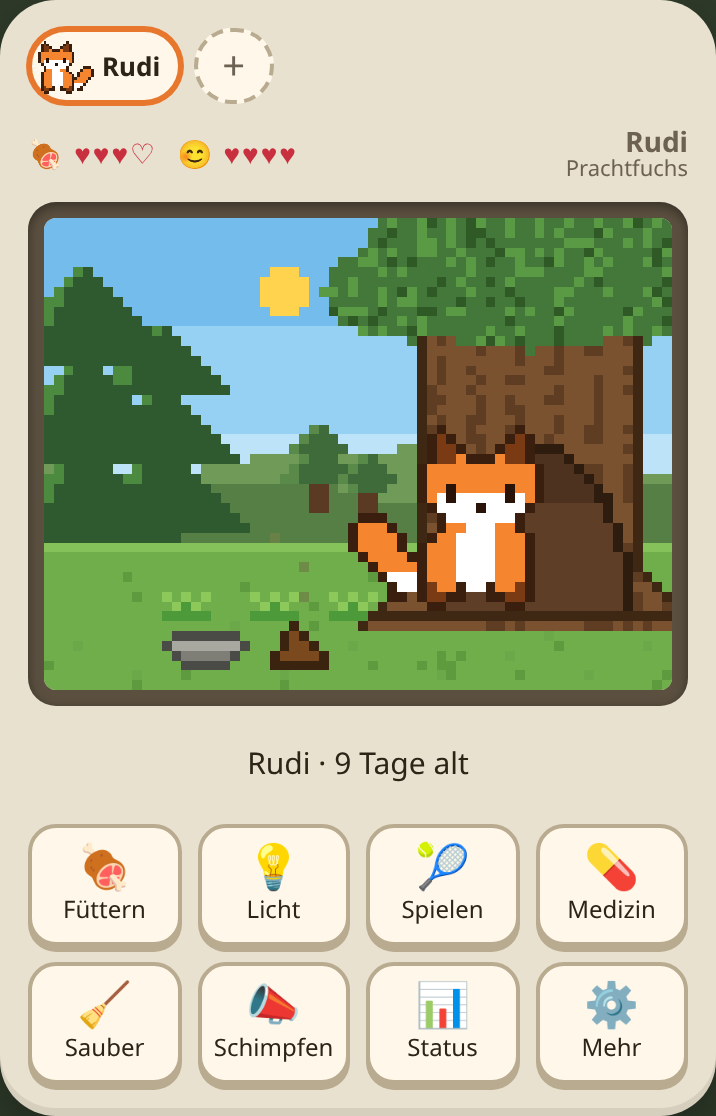
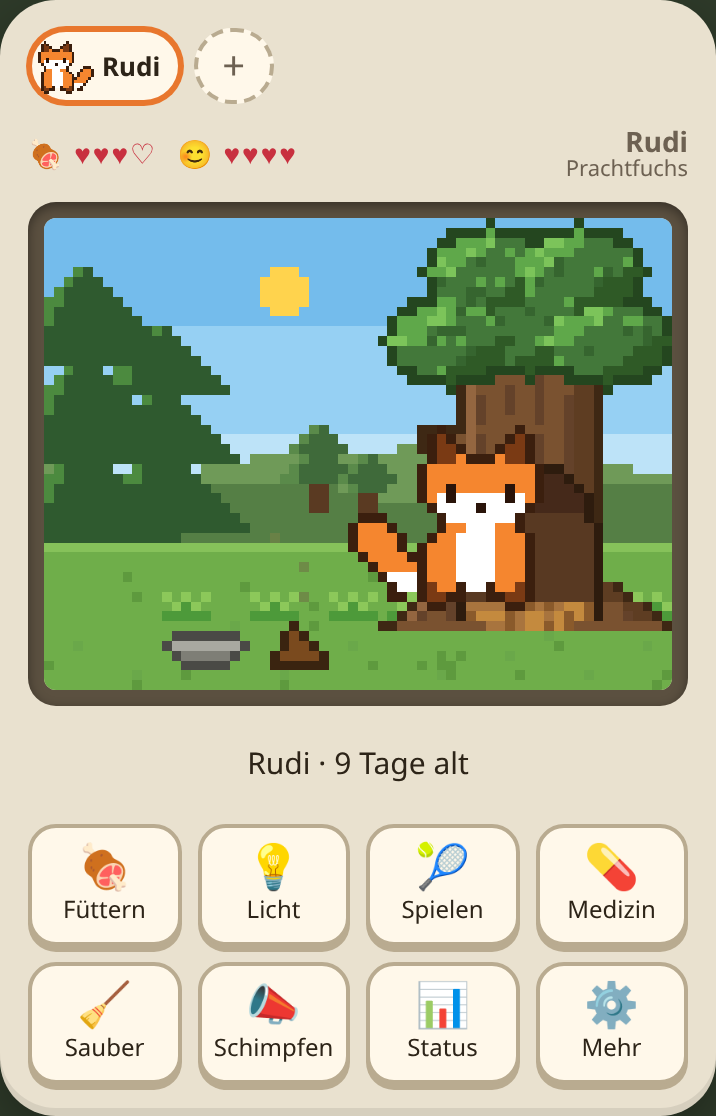
Baum am Waldrand kleiner und schöner: schlanker Stamm, Bogen-Höhle, schattierte Krone

Changed region(s): [[0.4302, 0.1828, 0.9525, 0.5789], [0.5838, 0.457, 0.6145, 0.4875]]

diff --git a/src/render/outdoor.ts b/src/render/outdoor.ts
@@ -145,33 +145,74 @@ function inEllipse(x: number, y: number, rx: number, ry: number, cy = NEST_BASE)
 }
 
 /** halbe Stammbreite je Zeile, unten mit Wurzeln breiter */
-const trunkHalf = (y: number) => 11 + (y > 35 ? y - 35 : 0);
-const HOLE_RX = 10;
-const HOLE_RY = 18;
+const trunkHalf = (y: number) => (y < 37 ? 7 : 7 + Math.round((y - 36) * 1.5));
+const TRUNK_TOP = 15;
+// Höhle: Torbogen mit rundem Dach
+const HOLE_HALF = 6;
+const HOLE_TOP = 25;
+const inHole = (x: number, y: number, grow = 0) => {
+  const r = HOLE_HALF + grow;
+  const archY = HOLE_TOP - grow + r; // Mittelpunkt des runden Dachs
+  if (y > NEST_BASE) return false;
+  if (y >= archY) return Math.abs(x - NEST_CX) <= r;
+  return (x - NEST_CX) ** 2 + (y - archY) ** 2 <= r * r;
+};
+
+function drawCrown(ctx: CanvasRenderingContext2D) {
+  const blobs: [number, number, number, number][] = [
+    [49, 9, 10, 6], [41, 12, 6, 4], [57, 12, 6, 4], [45, 5, 6, 4], [54, 5, 6, 4],
+  ];
+  // erst dunkler Umriss (1 px größer), dann gefüllt mit Licht von links oben
+  for (const pass of [0, 1])
+    for (const [bx, by, rx, ry] of blobs)
+      for (let y = by - ry - 1; y <= by + ry + 1; y++)
+        for (let x = bx - rx - 1; x <= bx + rx + 1; x++) {
+          const g = pass === 0 ? 1 : 0;
+          const d = ((x - bx) / (rx + g)) ** 2 + ((y - by) / (ry + g)) ** 2;
+          if (d > 1) continue;
+          if (pass === 0) {
+            px(ctx, '#24461f', x, y);
+            continue;
+          }
+          const light = (x - bx) / rx + (y - by) / ry;
+          const n = hash(x + 31, y) % 9;
+          let c = '#43783a';
+          if (light < -0.6) c = n < 3 ? '#7cc45a' : '#5fa84a';
+          else if (light > 0.7) c = '#2f5a26';
+          else if (n === 0) c = '#5fa84a';
+          else if (n === 1) c = '#36652f';
+          px(ctx, c, x, y);
+        }
+}
 
 export function drawNestBack(ctx: CanvasRenderingContext2D, kind: SceneKind) {
   if (kind === 'forest') {
-    // dicker Baumstamm
-    for (let y = 6; y <= NEST_BASE; y++) {
+    // Stamm mit Licht links, Schatten rechts und Rindenrillen
+    for (let y = TRUNK_TOP; y <= NEST_BASE; y++) {
       const hw = trunkHalf(y);
       for (let x = NEST_CX - hw; x <= NEST_CX + hw; x++) {
-        const edge = x === NEST_CX - hw || x === NEST_CX + hw;
-        const n = hash(x, y);
-        let c = edge ? '#3e2814' : (x + (n % 3 === 0 ? 1 : 0)) % 4 === 0 ? '#5e3d22' : '#7a5230';
-        if (inEllipse(x, y, HOLE_RX + 1, HOLE_RY + 1)) c = '#2e1c0e'; // Rand der Höhle
-        if (inEllipse(x, y, HOLE_RX, HOLE_RY)) c = y < NEST_BASE - 12 ? '#4e3220' : '#5e3e26'; // Innen
+        const rel = x - (NEST_CX - hw);
+        let c = '#7a5230';
+        if (rel <= 1) c = '#946640';
+        else if (x >= NEST_CX + hw - 2) c = '#5e3d22';
+        else if ((x - NEST_CX + 20) % 3 === 0 && hash(x, y) % 5 !== 0) c = '#64422a';
+        if (x === NEST_CX - hw || x === NEST_CX + hw) c = '#3e2814';
         px(ctx, c, x, y);
       }
     }
-    // Baumkrone
-    const blobs: [number, number, number, number][] = [[49, 3, 17, 8], [37, 7, 9, 5], [61, 6, 9, 6], [49, 9, 12, 4]];
-    for (const [bx, by, rx, ry] of blobs)
-      for (let y = by - ry; y <= by + ry; y++)
-        for (let x = bx - rx; x <= bx + rx; x++) {
-          if (((x - bx) / rx) ** 2 + ((y - by) / ry) ** 2 > 1) continue;
-          const n = hash(x + 31, y);
-          px(ctx, n % 4 === 0 ? '#5a9a44' : n % 7 === 0 ? '#2f5a26' : '#43783a', x, y);
-        }
+    // Aststummel links
+    px(ctx, '#3e2814', NEST_CX - 11, 21, 5, 3);
+    px(ctx, '#7a5230', NEST_CX - 10, 22, 4, 1);
+    // Höhle: dunkler Rand, warmes Inneres, Laubpolster am Boden
+    for (let y = HOLE_TOP - 1; y <= NEST_BASE; y++)
+      for (let x = NEST_CX - HOLE_HALF - 1; x <= NEST_CX + HOLE_HALF + 1; x++) {
+        if (!inHole(x, y, 1)) continue;
+        let c = '#2e1c0e';
+        if (inHole(x, y)) c = y < HOLE_TOP + 5 ? '#45291a' : '#583922';
+        if (inHole(x, y) && y >= NEST_BASE - 2) c = ['#a8743e', '#c48a3e', '#8a5a2b'][hash(x, y) % 3];
+        px(ctx, c, x, y);
+      }
+    drawCrown(ctx);
   } else {
     // Laubhaufen mit Mulde, innen etwas heller
     for (let y = NEST_BASE - 11; y <= NEST_BASE; y++)
@@ -187,13 +228,13 @@ export function drawNestBack(ctx: CanvasRenderingContext2D, kind: SceneKind) {
 
 export function drawNestFront(ctx: CanvasRenderingContext2D, kind: SceneKind) {
   if (kind === 'forest') {
-    // Wurzeln vor dem Höhleneingang (nur die untersten Zeilen)
-    for (let y = NEST_BASE - 1; y <= NEST_BASE; y++) {
-      const hw = trunkHalf(y);
-      for (let x = NEST_CX - hw; x <= NEST_CX + hw; x++) {
-        const edge = x === NEST_CX - hw || x === NEST_CX + hw || y === NEST_BASE - 1;
-        px(ctx, edge ? '#3e2814' : hash(x, y) % 3 === 0 ? '#5e3d22' : '#7a5230', x, y);
-      }
+    // Wurzeln vor dem Höhleneingang (nur die unterste Zeile)
+    const y = NEST_BASE;
+    const hw = trunkHalf(y);
+    for (let x = NEST_CX - hw; x <= NEST_CX + hw; x++) {
+      const inner = Math.abs(x - NEST_CX) <= HOLE_HALF - 2;
+      if (inner) continue; // in der Mitte liegt das Laubpolster frei
+      px(ctx, Math.abs(x - NEST_CX) >= hw - 1 ? '#3e2814' : '#7a5230', x, y);
     }
   } else {
     // vorderer Laubrand, verdeckt nur die Pfoten

diff --git a/SPEC.md b/SPEC.md
@@ -183,7 +183,7 @@ Gesperrte Aktionen, zum Beispiel Füttern während des Schlafs, sind ausgegraut.
 
 **Umgebung je Tierart:**
 - **Katze:** wohnt drinnen im Zimmer (siehe unten).
-- **Fuchs:** lebt draußen **am Waldrand**: Himmel mit Sonne bzw. Mond und Sternen, Hügel, Tannen, Wiese mit Gras. Er schläft in einer **Baumhöhle**, einem dicken Baum mit großem Loch unten im Stamm. Gefüttert wird auf einem flachen Stein.
+- **Fuchs:** lebt draußen **am Waldrand**: Himmel mit Sonne bzw. Mond und Sternen, Hügel, Tannen, Wiese mit Gras. Er schläft in einer **Baumhöhle**: Der Baum hat einen schlanken Stamm mit Rindenstruktur, Licht und Schatten, einen Aststummel, Wurzeln und eine schattierte Krone. Unten im Stamm ist eine bogenförmige Höhle mit Laubpolster. Gefüttert wird auf einem flachen Stein.
 - **Igel:** lebt draußen **im Garten**: Hecke, Holzzaun, Busch mit Beeren, Blumen, Rasen mit Herbstlaub. Er schläft in einem **Laubhaufen**. Gefüttert wird aus einem Tonschälchen.
 - Schlafplätze sind innen hell genug und verdecken nur den unteren Rand, damit man das schlafende Tier **gut erkennt**. Licht aus dunkelt das Bild nur so weit ab, dass das Tier sichtbar bleibt. Nachts ist draußen der Hintergrund zusätzlich dunkler.
 
